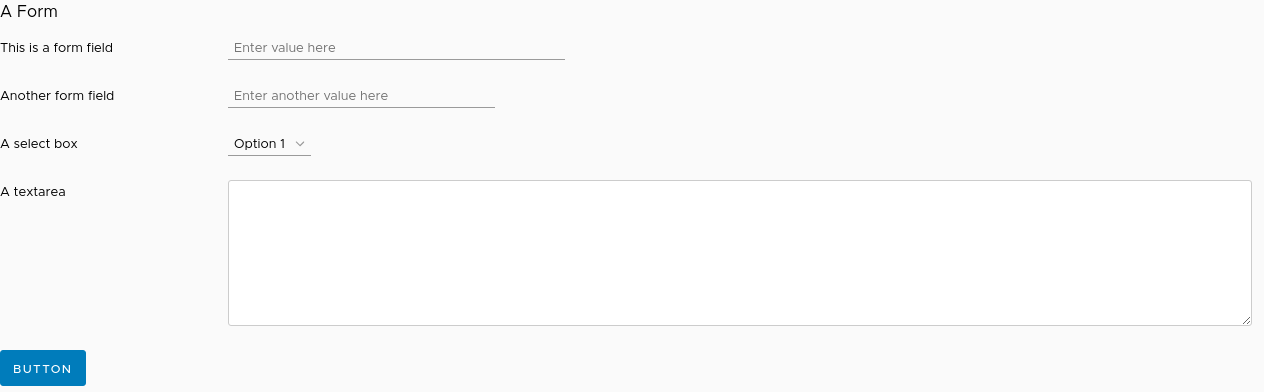
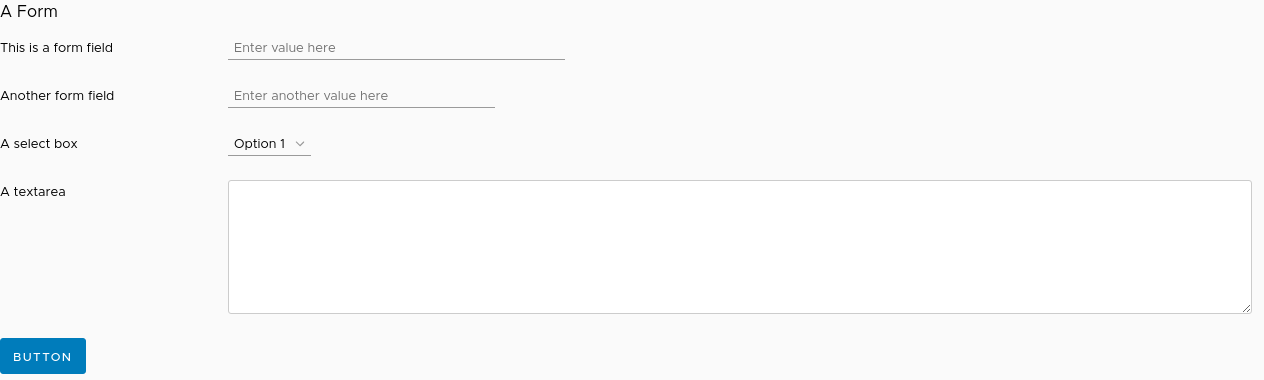
[UI] Fix Textarea padding

diff --git a/src/clarity-angular/forms/_inputs.clarity.scss b/src/clarity-angular/forms/_inputs.clarity.scss
@@ -30,7 +30,7 @@
         width: 100%;
         border: 1px solid $gray-light-midtone;
         border-radius: $clr-default-borderradius;
-        padding: $clr_baselineRem_0_5 $clr_baselineRem_0_25;
+        padding: $clr_baselineRem_0_25 $clr_baselineRem_0_5;
 
         &:focus {
             @include include-outline-style-form-fields();
